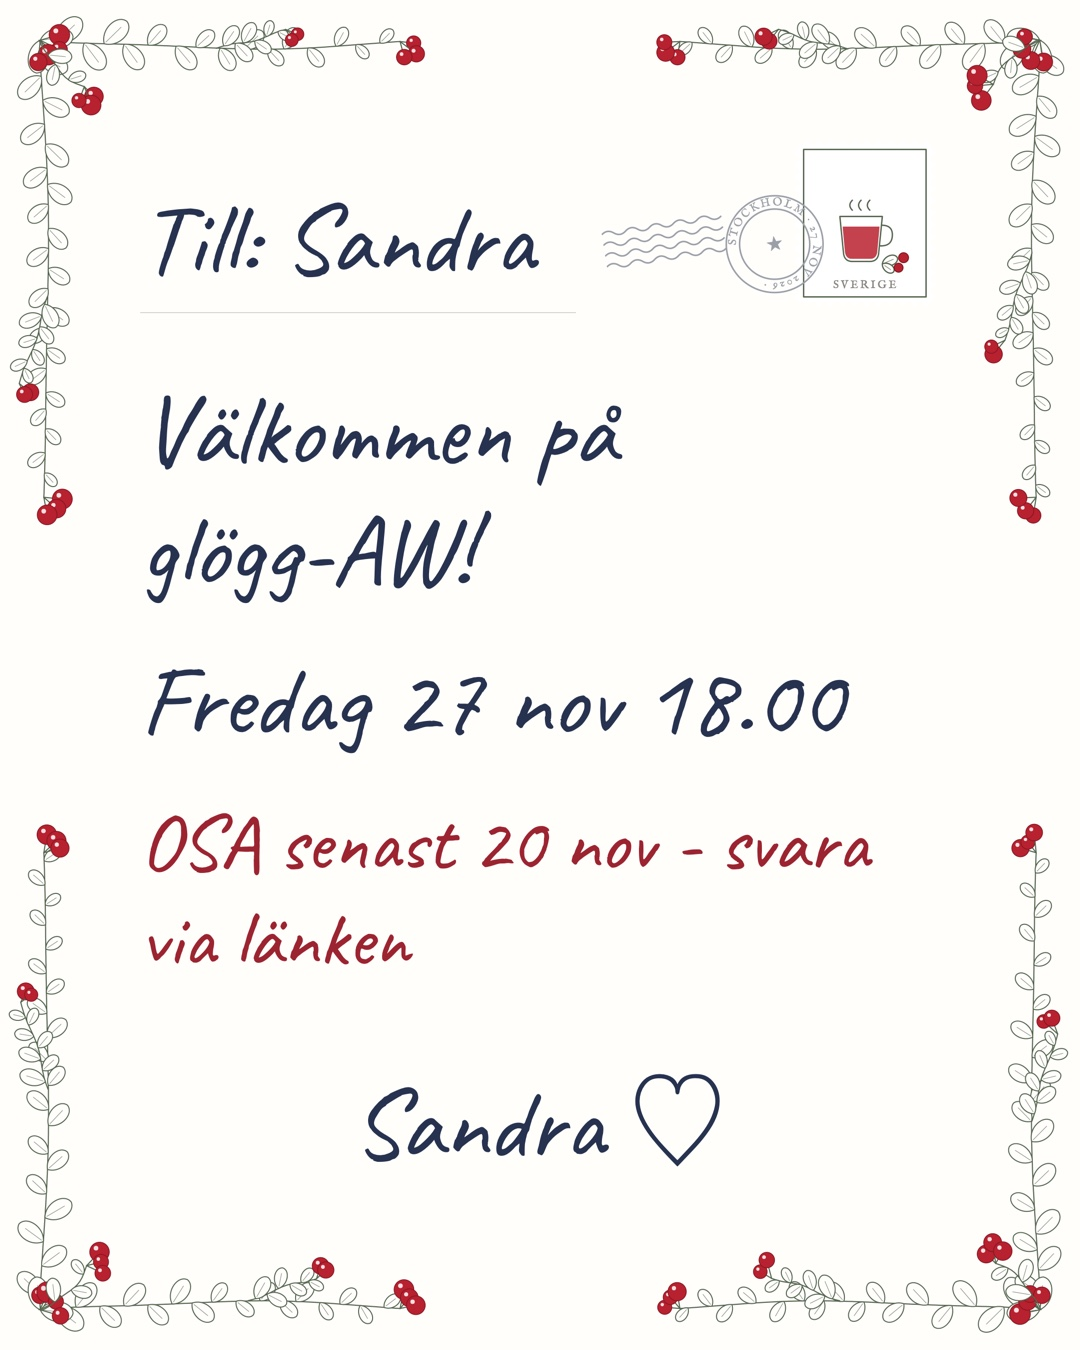
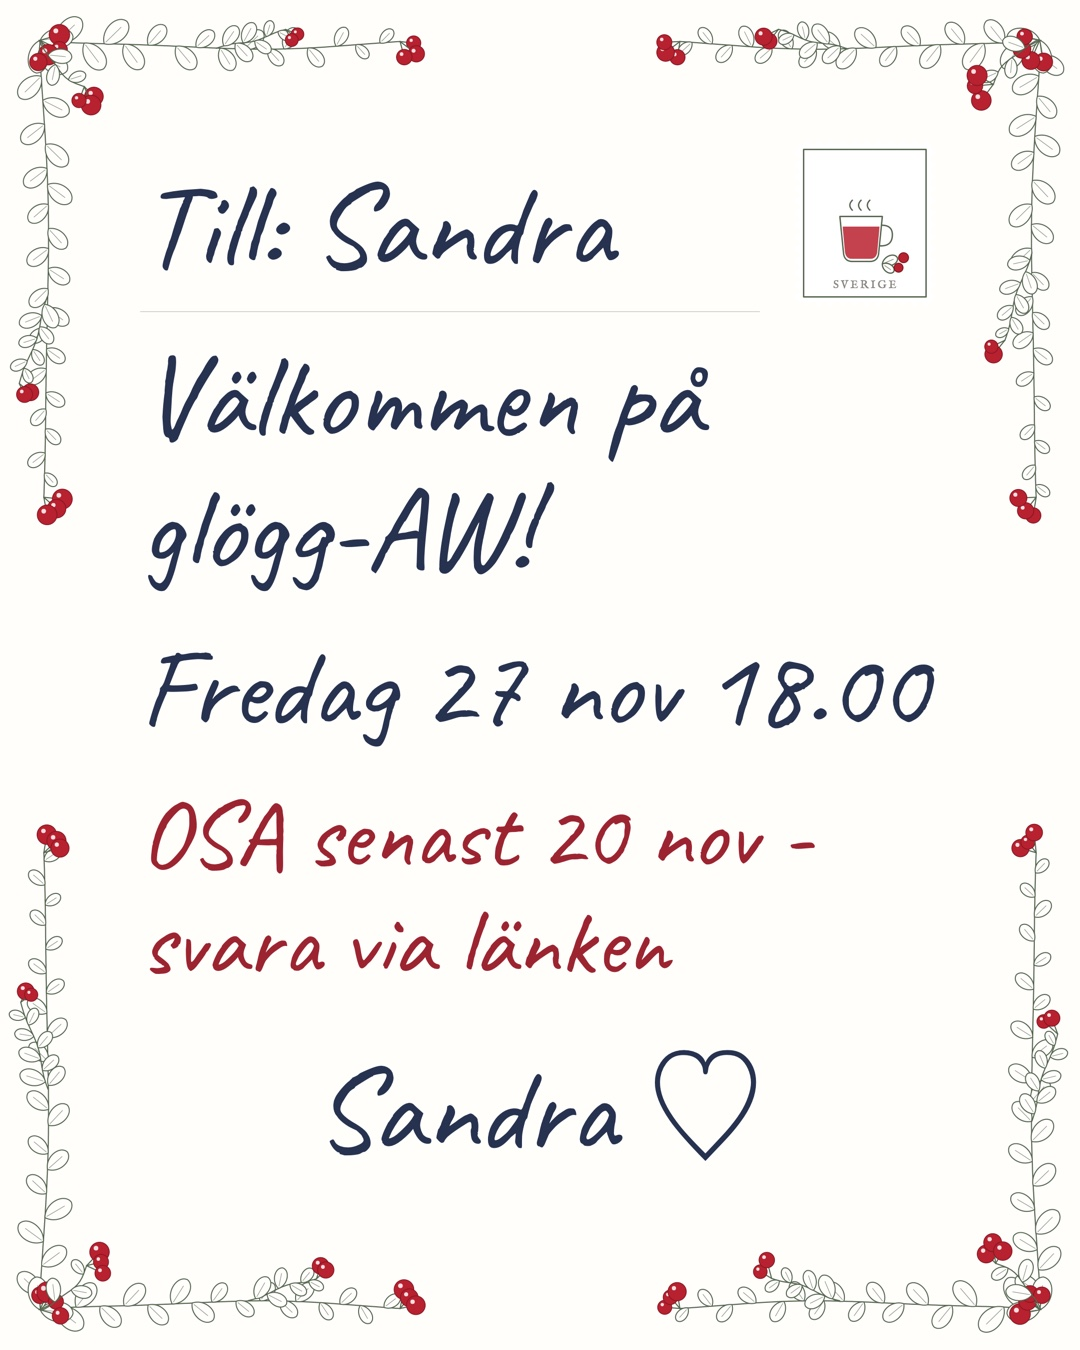
Much bigger card text, one row per line; no link-preview tags on reply pages

diff --git a/card.html b/card.html
@@ -16,13 +16,14 @@
   .post { display: flex; align-items: flex-start; flex: none; }
   .post .postmark { width: 230px; height: 121px; margin: 58px -46px 0 0; transform: rotate(-9deg); position: relative; z-index: 1; }
   .post .stamp { width: 150px; height: 178px; }
-  .line { font-size: 100px; padding-bottom: 10px; border-bottom: 1px solid var(--rule); }
+  .line { font-size: 120px; padding-bottom: 10px; border-bottom: 1px solid var(--rule); }
   .top .line { flex: 1; }
   .from { text-align: center; border-bottom: 0; }
-  .msg { font-size: 100px; line-height: 1.2; margin: auto 0; }
+  .msg { font-size: 118px; line-height: 1.12; margin: auto 0; }
   .msg .when { margin-top: 30px; }
+  .fit { white-space: nowrap; }
   .nw { white-space: nowrap; }
-  .msg .osa { margin-top: 34px; font-size: 80px; color: var(--berry-ink); }
+  .msg .osa { margin-top: 30px; font-size: 96px; color: var(--berry-ink); }
 </style>
 </head>
 <body>
@@ -45,15 +46,24 @@
   const card = document.getElementById('card');
   const frame = Lingon.frame(W, H, { margin: 40, scale: 2, reach: 0.36 });
   card.innerHTML = frame +
-    `<div class="top"><div class="line hand">${t.to}</div>
-       <div class="post">${Lingon.postmark('STOCKHOLM · 27 NOV 2026 · ', '★')}${Lingon.stamp(112, 132, 'SVERIGE')}</div></div>
-     <div class="msg hand"><div>${t.msg}</div><div class="when">${t.when}</div><div class="osa">${t.osa}</div></div>
+    `<div class="top"><div class="line hand fit">${t.to}</div>
+       <div class="post">${Lingon.stamp(112, 132, 'SVERIGE')}</div></div>
+     <div class="msg hand"><div>${t.msg}</div><div class="when fit">${t.when}</div><div class="osa">${t.osa}</div></div>
      <div class="line hand from">${t.from}</div>`;
   // Keep everything inside the frame's reach, with some air.
   const depth = Number(card.querySelector('.lingon').dataset.depth);
   card.style.padding = `${depth + 24}px ${depth + 30}px ${depth + 36}px`;
   window.frameDepth = depth;
-  document.fonts.ready.then(() => { window.cardReady = true; });
+  document.fonts.ready.then(() => {
+    // One row each: shrink a line that doesn't fit (a long name) rather than wrap it.
+    card.querySelectorAll('.fit').forEach(e => {
+      let size = parseFloat(getComputedStyle(e).fontSize);
+      while (e.scrollWidth > e.clientWidth + 1 && size > 40) e.style.fontSize = `${size -= 2}px`;
+    });
+    // Report text that would run past the padding (a name too long, a line too big).
+    window.overflow = card.scrollHeight > card.clientHeight || [...card.querySelectorAll(".line, .msg div")].some(e => e.scrollWidth > e.clientWidth + 1);
+    window.cardReady = true;
+  });
 </script>
 </body>
 </html>

diff --git a/t/sandra-stmfy/index.html b/t/sandra-stmfy/index.html
@@ -5,13 +5,6 @@
 <meta name="viewport" content="width=device-width, initial-scale=1, viewport-fit=cover">
 <title>Glögg efter jobbet 🍷</title>
 <meta name="robots" content="noindex">
-<meta property="og:type" content="website">
-<meta property="og:title" content="Glögg efter jobbet 🍷">
-<meta property="og:description" content="Fredag 27 november – tryck här för att svara">
-<meta property="og:image" content="https://sandragrennard-hash.github.io/glogg/t/sandra-stmfy/card.jpg?v=1793715204">
-<meta property="og:image:width" content="1080">
-<meta property="og:image:height" content="1350">
-<meta name="twitter:card" content="summary_large_image">
 <meta name="theme-color" content="#fffefb">
 <link rel="icon" href="/glogg/icon.svg">
 <link rel="preconnect" href="https://fonts.googleapis.com">

diff --git a/index.html b/index.html
@@ -5,13 +5,6 @@
 <meta name="viewport" content="width=device-width, initial-scale=1, viewport-fit=cover">
 <title>Glögg efter jobbet 🍷</title>
 <meta name="robots" content="noindex">
-<meta property="og:type" content="website">
-<meta property="og:title" content="Glögg efter jobbet 🍷">
-<meta property="og:description" content="Fredag 27 november – tryck här för att svara">
-<meta property="og:image" content="https://sandragrennard-hash.github.io/glogg/card-sv.jpg?v=11">
-<meta property="og:image:width" content="1080">
-<meta property="og:image:height" content="1350">
-<meta name="twitter:card" content="summary_large_image">
 <meta name="theme-color" content="#fffefb">
 <link rel="icon" href="icon.svg">
 <link rel="preconnect" href="https://fonts.googleapis.com">

diff --git a/en/index.html b/en/index.html
@@ -5,13 +5,6 @@
 <meta name="viewport" content="width=device-width, initial-scale=1, viewport-fit=cover">
 <title>Glögg after work 🍷</title>
 <meta name="robots" content="noindex">
-<meta property="og:type" content="website">
-<meta property="og:title" content="Glögg after work 🍷">
-<meta property="og:description" content="Friday 27 November – tap here to reply">
-<meta property="og:image" content="https://sandragrennard-hash.github.io/glogg/card-en.jpg?v=11">
-<meta property="og:image:width" content="1080">
-<meta property="og:image:height" content="1350">
-<meta name="twitter:card" content="summary_large_image">
 <meta name="theme-color" content="#fffefb">
 <link rel="icon" href="../icon.svg">
 <link rel="preconnect" href="https://fonts.googleapis.com">
